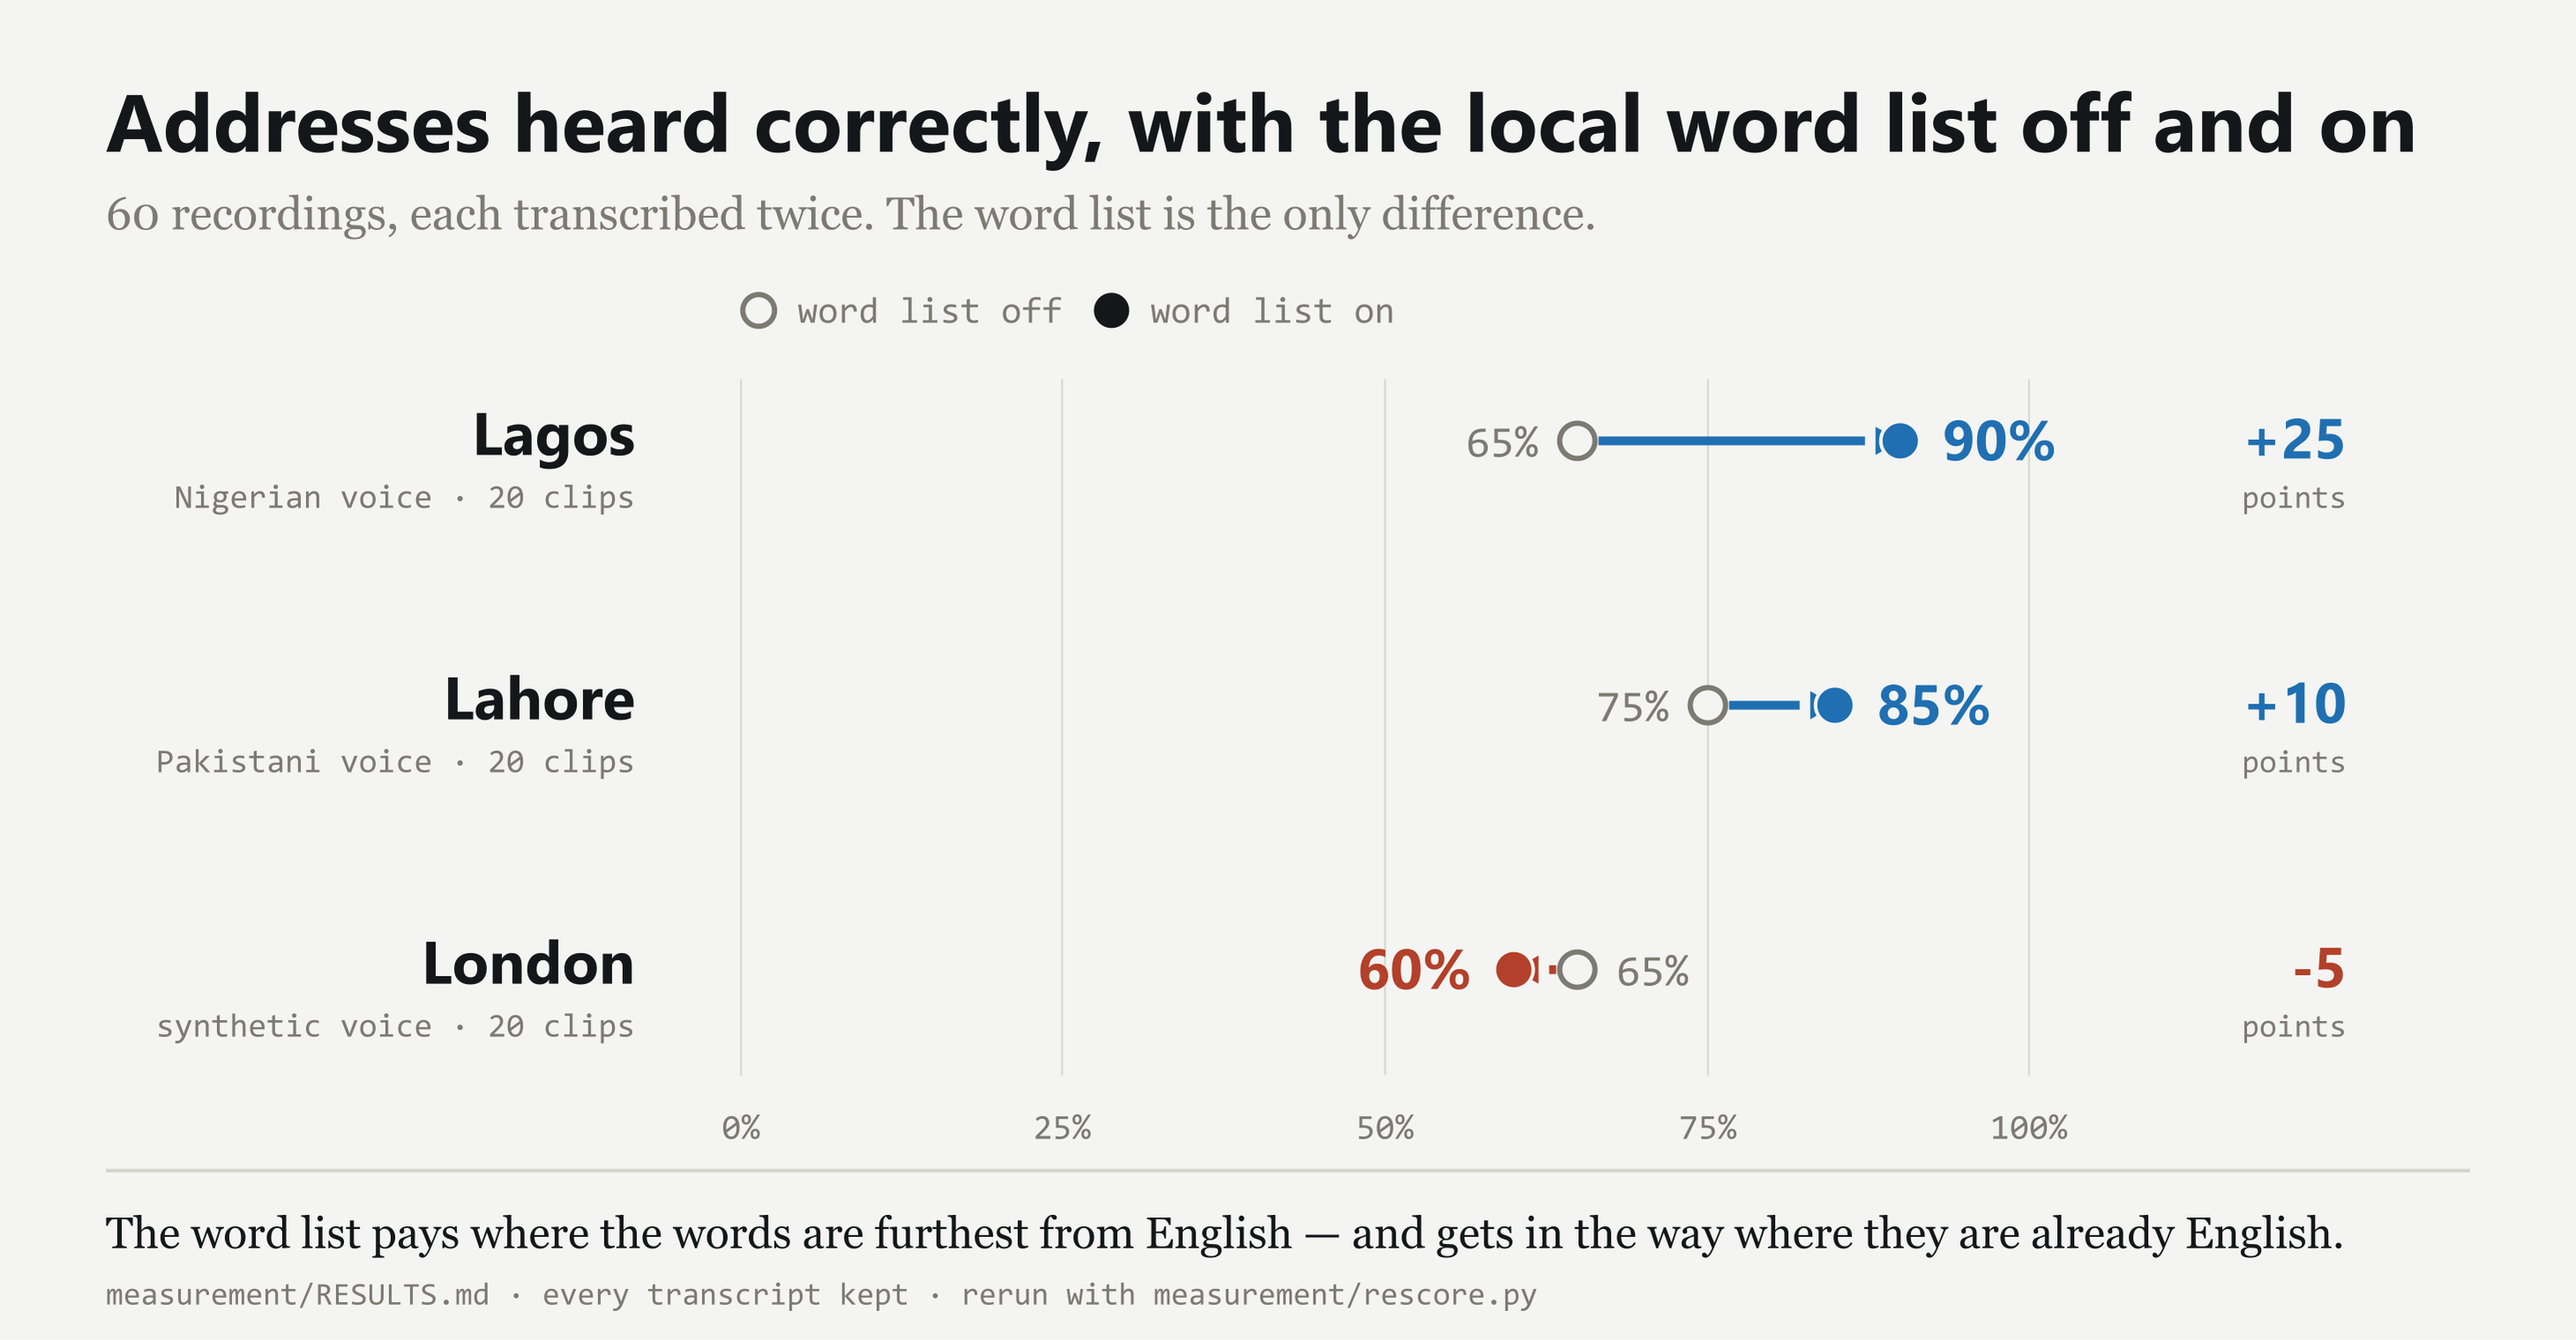
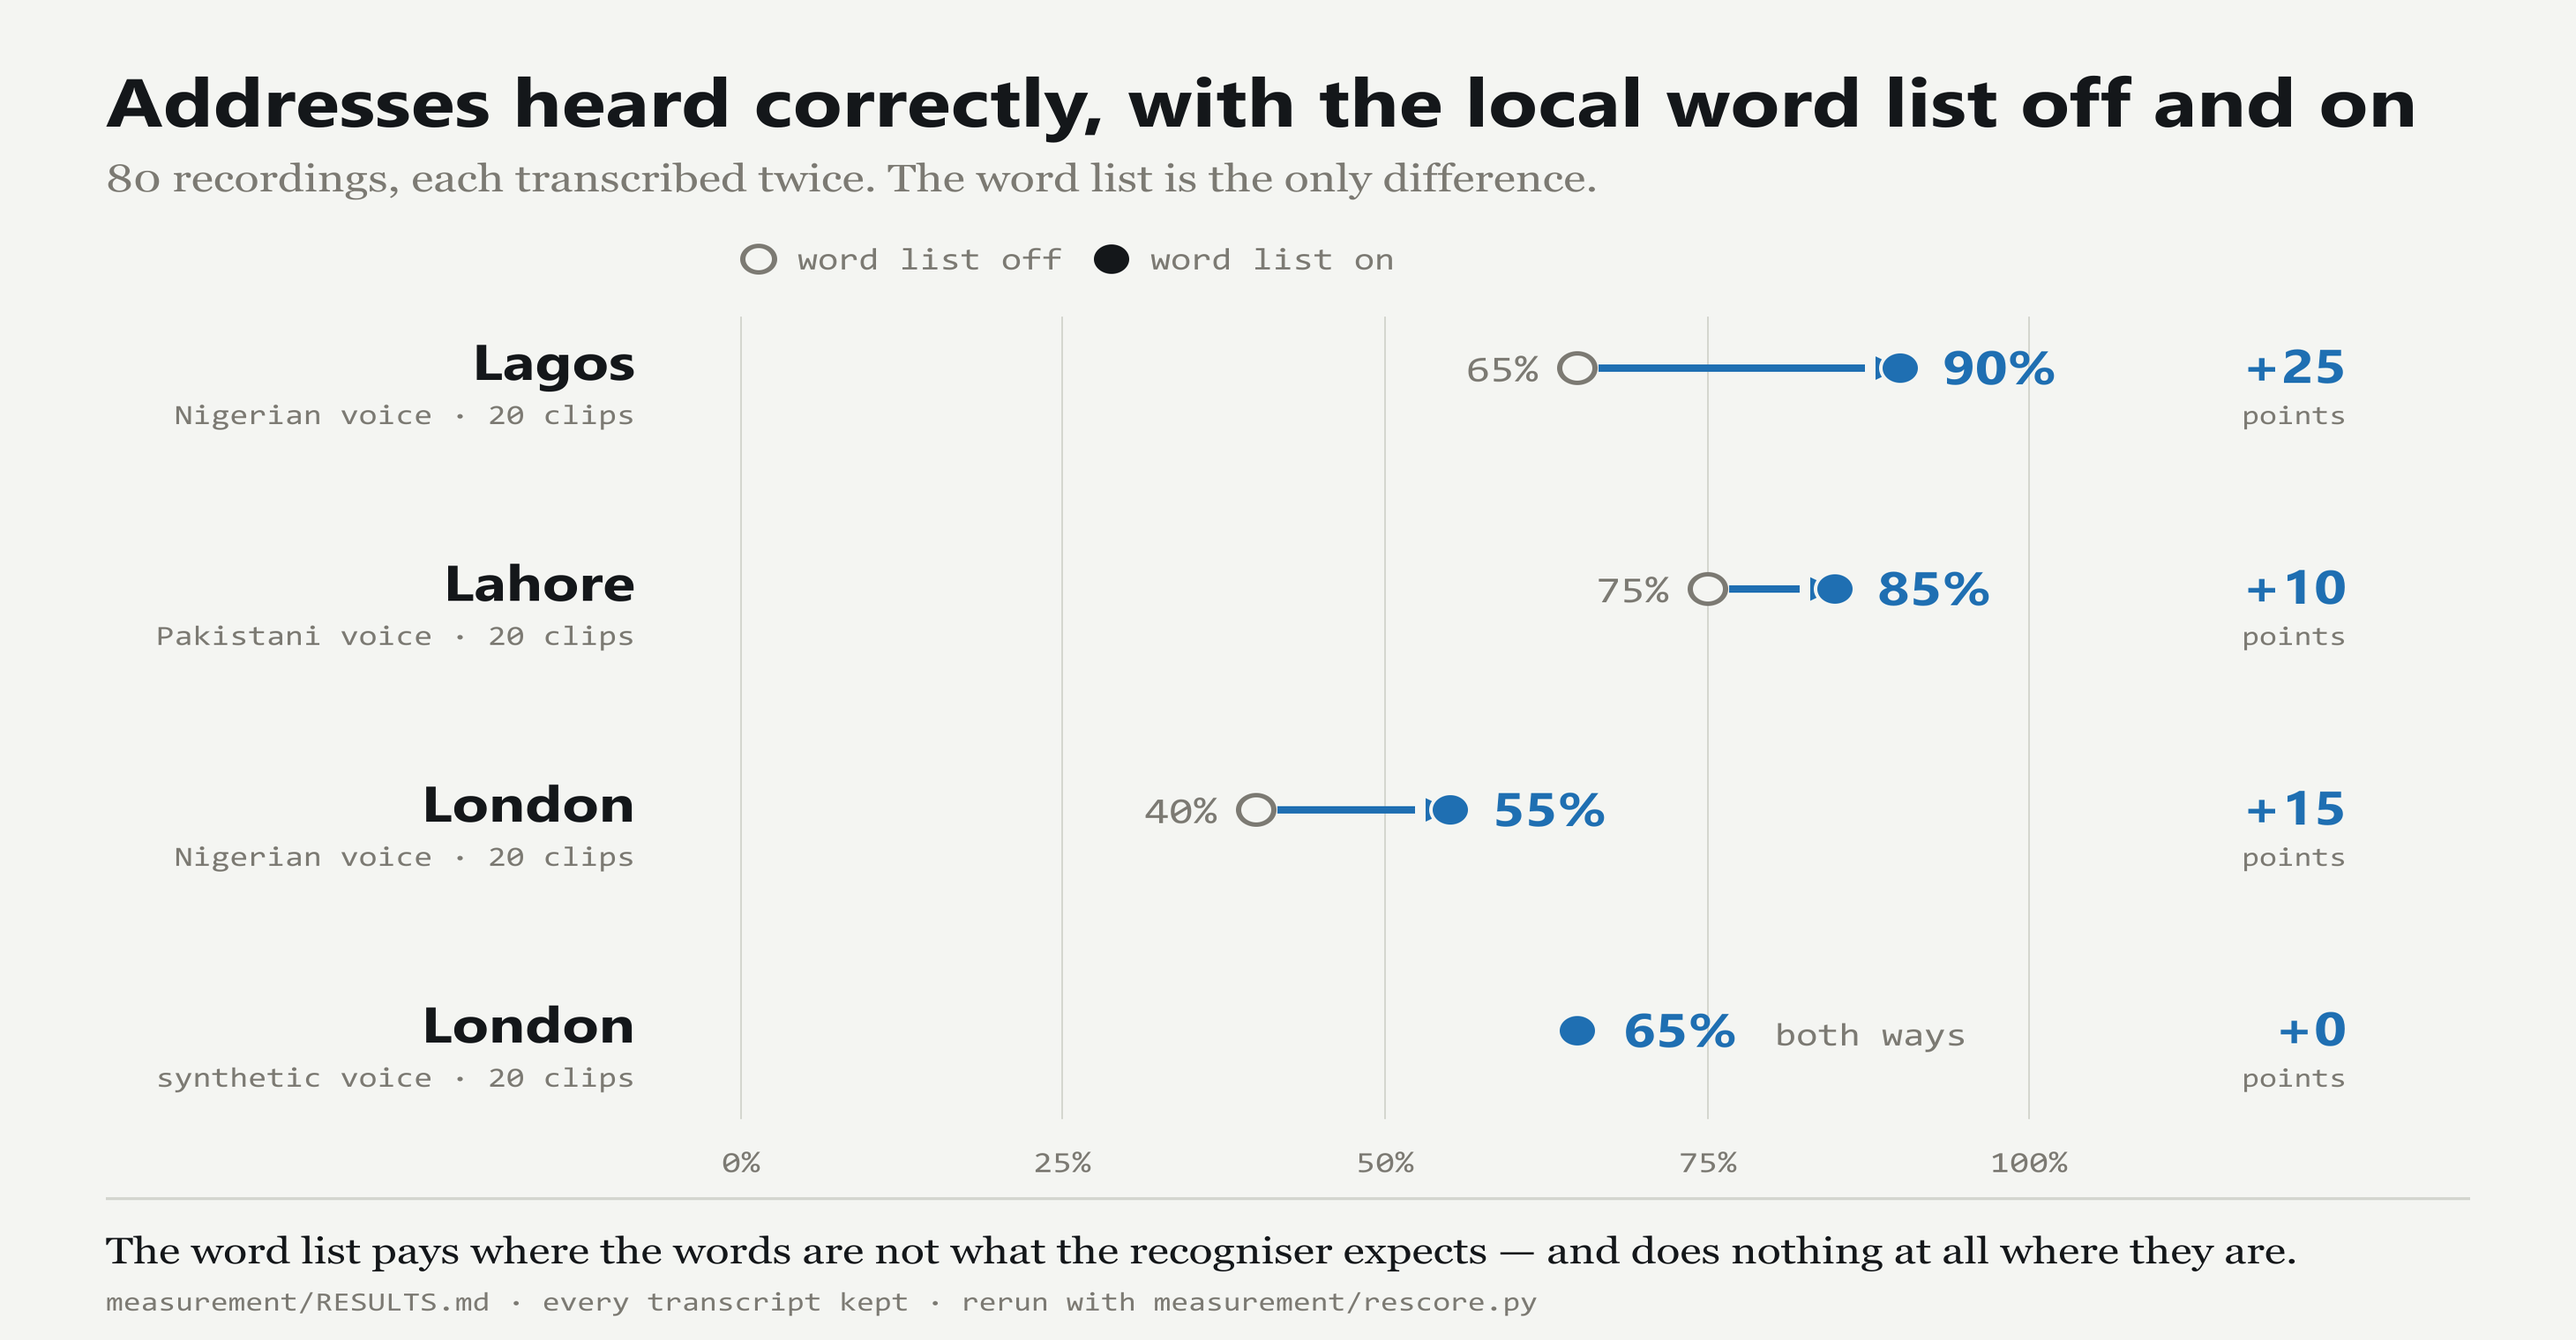
The London row said the pack hurts; we had already fixed that
RESULTS.md carried both the claim and its refutation: the headline table
said 60% against 65%, and five sections later the same file said dropping
the bare postcodes "restored the score to exactly 65% and 6.4%". The fix
was real, the sheet was never re-run, and the stale number was the one a
judge was most likely to quote back at us.

Re-ran the twenty synthetic clips on the shipped 24-term pack: 65% and
6.4% in both columns, matching the prediction to the decimal. London does
not get worse. It does not change at all, which is a cleaner finding and
still a result against us.

Added Dami's London set, and it is the interesting one. A Nigerian voice
on London addresses is a great deal of real UK delivery work, and at 40%
without the pack it is the hardest set we have: accent and place names
miss independently. The pack takes it to 55%.

The pre-fix sheet is kept in source/ rather than overwritten, because a
bug whose evidence you deleted is just a claim.

Chart geometry now follows the number of rows instead of assuming three,
and a row that did not move is drawn as one dot reading "both ways"
instead of a backwards arrow under two colliding labels.

diff --git a/measurement/chart.py b/measurement/chart.py
@@ -10,7 +10,9 @@ The numbers are read from the `-results.csv` files every time, so the chart and
 the claim cannot drift apart. Nothing here is typed in by hand.
 
 Form: a dumbbell, because the job is change with direction. Bars would make the
-reader subtract three pairs in their head, and London's fall is the whole point.
+reader subtract four pairs in their head, and London's flat line is the whole
+point — a pair of dots sitting on top of each other says "no effect" faster than
+any number can.
 
 Colour: blue for a gain, rust for a fall. Not green and red — those are the pair
 a colourblind reader cannot separate. This pair was checked with the palette
@@ -31,6 +33,7 @@ ROOT = HERE.parent
 SETS = [
     ("Lagos", "Nigerian voice", "lagos_recording_manifest-results.csv"),
     ("Lahore", "Pakistani voice", "lahore_human_manifest-results.csv"),
+    ("London", "Nigerian voice", "london_human_manifest-results.csv"),
     ("London", "synthetic voice", "london_recording_manifest-results.csv"),
 ]
 
@@ -56,9 +59,12 @@ def measure():
 def main():
     data = measure()
 
-    W, H = 1460, 760
+    rows = len(data)
+    W = 1460
     left, right = 420, 1150          # plot area in x
     top, gap = 250, 150              # first row, spacing
+    last = top + (rows - 1) * gap    # y of the bottom row
+    H = last + 210                   # room for the axis, rule and caption
     x = lambda pct: left + (right - left) * pct / 100
 
     p = []
@@ -75,7 +81,8 @@ def main():
     add(f'  <text class="display" x="60" y="86" font-size="46" fill="{INK}">'
         "Addresses heard correctly, with the local word list off and on</text>")
     add(f'  <text class="body" x="60" y="130" font-size="26" fill="{MUTE}">'
-        "60 recordings, each transcribed twice. The word list is the only difference.</text>")
+        f"{sum(d[4] for d in data)} recordings, each transcribed twice. "
+        "The word list is the only difference.</text>")
 
     # Legend: two states, so one is required.
     add(f'  <circle cx="{left + 10}" cy="176" r="9" fill="{PAPER}" stroke="{MUTE}" stroke-width="3"/>')
@@ -85,9 +92,9 @@ def main():
 
     # Gridlines, recessive.
     for pct in range(0, 101, 25):
-        add(f'  <line x1="{x(pct):.0f}" y1="215" x2="{x(pct):.0f}" y2="{top + 2 * gap + 60}" '
+        add(f'  <line x1="{x(pct):.0f}" y1="215" x2="{x(pct):.0f}" y2="{last + 60}" '
             f'stroke="{RULE}" stroke-width="1"/>')
-        add(f'  <text class="mono" x="{x(pct):.0f}" y="{top + 2 * gap + 96}" font-size="20" '
+        add(f'  <text class="mono" x="{x(pct):.0f}" y="{last + 96}" font-size="20" '
             f'fill="{MUTE}" text-anchor="middle">{pct}%</text>')
 
     for i, (name, voice, off, on, n) in enumerate(data):
@@ -102,12 +109,16 @@ def main():
             f'text-anchor="end">{voice} · {n} clips</text>')
 
         # The connector carries the direction; a 2px surface gap keeps the dots clean.
+        # A row that did not move has no direction to carry, so it gets neither line
+        # nor arrowhead: two dots in the same place is the clearest way to say "nothing
+        # happened", and it is a finding, not a gap in the chart.
         sign = 1 if x1 > x0 else -1
-        add(f'  <line x1="{x0 + 12 * sign:.0f}" y1="{y}" x2="{x1 - 20 * sign:.0f}" y2="{y}" '
-            f'stroke="{colour}" stroke-width="5"/>')
-        head = 14
-        add(f'  <polygon points="{x1:.0f},{y} {x1 - head * sign:.0f},{y - 8} '
-            f'{x1 - head * sign:.0f},{y + 8}" fill="{colour}"/>')
+        if abs(x1 - x0) > 24:
+            add(f'  <line x1="{x0 + 12 * sign:.0f}" y1="{y}" x2="{x1 - 20 * sign:.0f}" y2="{y}" '
+                f'stroke="{colour}" stroke-width="5"/>')
+            head = 14
+            add(f'  <polygon points="{x1:.0f},{y} {x1 - head * sign:.0f},{y - 8} '
+                f'{x1 - head * sign:.0f},{y + 8}" fill="{colour}"/>')
 
         add(f'  <circle cx="{x0:.0f}" cy="{y}" r="10" fill="{PAPER}" stroke="{MUTE}" stroke-width="3"/>')
         add(f'  <circle cx="{x1:.0f}" cy="{y}" r="11" fill="{colour}" stroke="{PAPER}" stroke-width="2"/>')
@@ -115,10 +126,18 @@ def main():
         # Direct labels on both ends, each sitting on the outside of its own dot.
         # Centring them above the dots collides whenever the two are close, which
         # is exactly the row — London — that the reader most needs to read.
-        add(f'  <text class="mono" x="{x0 - 22 * sign:.0f}" y="{y + 9}" font-size="25" fill="{MUTE}" '
-            f'text-anchor="{"end" if rose else "start"}">{off:.0f}%</text>')
-        add(f'  <text class="display" x="{x1 + 24 * sign:.0f}" y="{y + 11}" font-size="32" fill="{colour}" '
-            f'text-anchor="{"start" if rose else "end"}">{on:.0f}%</text>')
+        if abs(x1 - x0) > 24:
+            add(f'  <text class="mono" x="{x0 - 22 * sign:.0f}" y="{y + 9}" font-size="25" fill="{MUTE}" '
+                f'text-anchor="{"end" if rose else "start"}">{off:.0f}%</text>')
+            add(f'  <text class="display" x="{x1 + 24 * sign:.0f}" y="{y + 11}" font-size="32" '
+                f'fill="{colour}" text-anchor="{"start" if rose else "end"}">{on:.0f}%</text>')
+        else:
+            # Both ends in the same place: two labels would print on top of each
+            # other. One label, saying so in words, is the readable version.
+            add(f'  <text class="display" x="{x1 + 26:.0f}" y="{y + 11}" font-size="32" '
+                f'fill="{colour}" text-anchor="start">{on:.0f}%</text>')
+            add(f'  <text class="mono" x="{x1 + 26 + 86:.0f}" y="{y + 10}" font-size="22" '
+                f'fill="{MUTE}" text-anchor="start">both ways</text>')
 
         change = on - off
         add(f'  <text class="display" x="{W - 130}" y="{y + 10}" font-size="32" fill="{colour}" '
@@ -128,8 +147,8 @@ def main():
 
     add(f'  <line x1="60" y1="{H - 96}" x2="{W - 60}" y2="{H - 96}" stroke="{RULE}" stroke-width="2"/>')
     add(f'  <text class="body" x="60" y="{H - 52}" font-size="25" fill="{INK}">'
-        "The word list pays where the words are furthest from English — and gets in the way "
-        "where they are already English.</text>")
+        "The word list pays where the words are not what the recogniser expects — and does "
+        "nothing at all where they are.</text>")
     add(f'  <text class="mono" x="60" y="{H - 20}" font-size="18" fill="{MUTE}">'
         "measurement/RESULTS.md · every transcript kept · rerun with measurement/rescore.py</text>")
     add("</svg>")

diff --git a/README.md b/README.md
@@ -17,19 +17,26 @@ AssemblyAI Voice Agent Hackathon, September 2026.
 
 Local place names are what a recogniser gets wrong. Each region ships a list of local
 terms, handed to the recogniser *before* it listens. We measured what that is worth:
-sixty recordings, each transcribed twice, the word list the only difference.
+eighty recordings, each transcribed twice, the word list the only difference.
 
 | Region | Voice | Word list off | on | Gain |
 |---|---|---|---|---|
-| **Lagos** | Nigerian, ours | 65% | **90%** | **+25** |
-| **Lahore** | Pakistani, ours | 75% | **85%** | **+10** |
-| **London** | synthetic British | 65% | **60%** | **−5** |
+| **Lagos** | Dami, Nigerian | 65% | **90%** | **+25** |
+| **Lahore** | Yashfa, Pakistani | 75% | **85%** | **+10** |
+| **London** | Dami, Nigerian, on London addresses | 40% | **55%** | **+15** |
+| **London** | synthetic British | 65% | **65%** | **0** |
 
 *Addresses transcribed fully correctly.* Word error rate in Lagos falls from 7.3% to 1.6%.
 
-**The pack pays most where the vocabulary is furthest from English, and slightly hurts
-where the words are already native.** London is in the table because a result that goes
-against us is what makes the other two worth believing. Method and every transcript:
+**The pack pays where the vocabulary is furthest from the recogniser's expectations, and
+does nothing where it is already native.** A British voice reading British streets gains
+exactly nothing from the pack — and that row stays in the table, because a result that
+goes against us is what makes the other three worth believing.
+
+The other London row is the one we did not expect. A Nigerian voice reading London
+addresses is a great deal of real UK delivery work, and it is the hardest set we have:
+40% correct without the pack, worse than any region in its own city. Accent and place
+names miss independently. Method and every transcript:
 [`measurement/RESULTS.md`](measurement/RESULTS.md).
 
 ---
@@ -254,8 +261,11 @@ the socket, not once at page load.
 **The transcript arrives as plain text with no confidence score.** To flag a doubtful name
 we re-transcribe the cited turn with a second model and compare — `/api/review`.
 
-**Keyterms can make recognition worse.** London scored 60% with the pack against 65%
-without. Biasing towards words the model already knows pulls correct guesses off course.
+**A keyterm that is a prefix of a longer word can corrupt that word.** The London pack
+listed the bare postcode `W1`, and `W11` came back as `W1 1` — which dragged the whole
+set to 60% against 65% with the pack off. Dropping the ten bare postcodes put it back to
+65% exactly. Without a keyterms-off control run we would have shipped that and never
+known.
 
 **Without keyterms, two Lahore addresses came back in Devanagari.** The recogniser
 switched language rather than mis-spelling a word. Forcing the locale fixes it — and a

diff --git a/docs/video-script.md b/docs/video-script.md
@@ -142,22 +142,27 @@ Let the reader read it.
 
 > We did not want to claim that word lists help. We measured it.
 >
-> Sixty recordings, in our own voices — mine in Lahore, my teammate's in Lagos.
+> Eighty recordings, in our own voices — mine in Lahore, my teammate's in Lagos.
 > Each one transcribed twice. The word list is the only thing that changes
 > between the two runs.
 >
 > Lagos goes from sixty-five per cent of addresses heard correctly, to ninety.
 > Lahore, seventy-five to eighty-five.
 >
-> And London gets slightly worse. Sixty-five down to sixty.
+> Then we pointed it at London with a synthetic British voice, and it changed
+> nothing. Sixty-five, both ways, identical.
 >
-> We are showing you that because it is the finding. Biasing the recogniser pays
-> where the words are furthest from English, and gets in the way where they
-> already are English.
+> So we recorded London again, in a Nigerian voice — because a great many
+> Nigerians drive deliveries in Britain. That is the hardest set we have. Forty
+> per cent without the word list. Fifty-five with it.
+>
+> Biasing the recogniser pays where the words are not what it expects. Where they
+> already are what it expects, it does nothing at all.
 
-**Say the London number clearly.** A team that reports a result against itself is
-a team whose other numbers you believe. This is the most valuable forty seconds
-in the video.
+**Say the flat London number clearly.** A team that reports a result against
+itself is a team whose other numbers you believe. This is the most valuable forty
+seconds in the video — and the Nigerian-voice row is the one no other team will
+have thought to measure.
 
 ---
 

diff --git a/measurement/source/README.md b/measurement/source/README.md
@@ -5,6 +5,7 @@ The originals, as they were handed over, before being merged into `regions/`.
 | File | From | Now lives in |
 |---|---|---|
 | `lahore-keyterms-yashfa.docx` | Yashfa, 15 Sep | `regions/pk-lahore.json` |
+| `london-prefix-postcode-bug.xlsx` | The London run of 22 Sep, before the fix | kept as evidence, not shipped |
 
 Kept because a region pack is a claim about how people in a place actually speak,
 and it matters who made that claim. The merged pack is the one the agent uses; this
@@ -14,3 +15,13 @@ All 39 of her terms are in the shipped pack — checked, ignoring spacing and
 punctuation, before this file was filed away. The pack is at the API's cap of
 exactly 100 terms, so the rest of that list is ours: Lagos-style delivery words,
 and the street and area names her twenty recordings needed.
+
+## The London run that found the prefix bug
+
+`london-prefix-postcode-bug.xlsx` is the 34-keyterm run that scored 60% against 65%
+with the pack off. One keyterm, the bare postcode `W1`, split `W11` into `W1 1`.
+RESULTS.md tells that story; this is the sheet it happened in.
+
+The ten bare postcodes came out, and the same twenty clips were run again on the
+24-term pack: 65% either way. That run is the one in `measurement/`. This one is
+kept because a bug you can no longer see the evidence for is just a claim.
